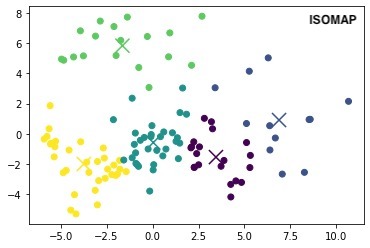
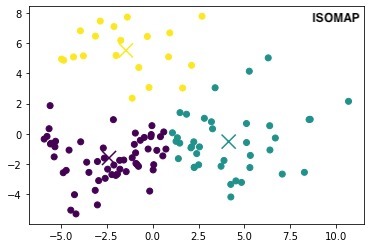
Readme (#9)
* Update README.md

* orden de las imágenes

* updated isomap

* updated image

* image

* Update README.md

* Update README.md

* Actualización

* atribución Carlos

* Update README.md

* Update README.md

* Prueba del programa

* Pronostico agregado

diff --git a/README.md b/README.md
@@ -9,7 +9,7 @@ Gutierrez Aldrete José de Jesús (ShoyChoy)
 
 López Cruz Diana Sareli (dianasareli)
 
-Ojeda Angulo Carlos Noel (Carlos-Ojeda)
+Ojeda Angulo Carlos Noel (Carlos-Ojeda) *También se le atribuye lo que está a nombre de Carlos sin cuenta de GitHub*
 
 Sánchez Panduro Francisco Javier (javiersanpan)
 
@@ -17,31 +17,46 @@ Saucedo Cruz José Rodrigo (SauceRSC)
 
 ## Objetivo de la clase
 
-Esta semana Tec está diesñada para desarrollar el análisis de datos en ingeniería y ciencias, así como la identificación de variables. 
-Asimismo, se desarrolla el emprendimiento innovador, y la inovación. 
+Esta semana Tec está diseñada para desarrollar el análisis de datos en ingeniería y ciencias, así como la identificación de variables. Asimismo, se desarrolla el emprendimiento innovador, y la inovación. 
 
 ## Objetivo del proyecto
 
-Se usó un dataset, con infomración recolectada a través de una encuesta. Este dataset nos indica qué tipo de compañerx de equipo es la persona que responde, con 7 tipos diferentes. 
+Con un dataset brindado, se crea un programa para separar por clases la información, y predecir a cuál pertenecenecerá una persona que responda de nuevo la encuesta. En este proyecto se utiliza un dataset generado por el equipo a través de encuestas, y se pronosticará qué tipo de participante en un equipo es una persona nueva. 
 
 ## Proyecto
 
+Se hizo una encuesta con 7 preguntas sobre cargos de equipo diferentes, y hubo 115 participantes. Las personas que participaron contestaron la frecuencia con la que tomaban  cierto cargo en un a escala de 0 a 5. 
+
 Este dataset se lee con la librería de Pandas. 
 
-Se divide en matriz de caractéristicas y vector de clases. Con esto, se probaron varios métodos de reducción de dimensiones, y se generan graficas con cada uno de ellos. 
+Se divide en matriz de caractéristicas. Con esto, se probaron varios métodos de reducción de dimensiones, y se generan graficas con cada uno de ellos. 
 
 Las graficas generadas son: 
 
-
 ![Isomap](https://github.com/javiersanpan/TC-1002-5/blob/master/Imagenes/Isomap.jpeg)
-![MDS](https://github.com/javiersanpan/TC-1002-5/blob/master/Imagenes/MDS.jpeg)
+
 ![PCA](https://github.com/javiersanpan/TC-1002-5/blob/master/Imagenes/PCA.jpeg)
 
-Y se seleccionó el **insertar seleccionada**, esto fue porque al intentar hacer la prueba con los tres, este es el que mostraba las clases de manera más clara, esto se puede observar cuando se separan por colores:
+![MDS](https://github.com/javiersanpan/TC-1002-5/blob/master/Imagenes/MDS.jpeg)
 
+Y se seleccionó ISOMAP, esto fue porque al intentar hacer la prueba con los tres, este es el que mostraba las clases de manera más clara, también se omite MDS, ya que se presenta un error al intentar dividir por 0.
 
-![PCA](https://github.com/javiersanpan/TC-1002-5/blob/master/Imagenes/PCA-C.jpeg)
 ![ISOMAP](https://github.com/javiersanpan/TC-1002-5/blob/master/Imagenes/ISOMAP-C.png)
 
-Adicionalmente, se programó el kmeans, y se grafican los puntos y los centroides en cada interacción, y de esta manera se ve como evoluciona la posición de estos centroides. 
+![PCA](https://github.com/javiersanpan/TC-1002-5/blob/master/Imagenes/PCA-C.jpeg)
 
+Adicionalmente, se programó el kmeans, y se grafican los puntos y los centroides en cada interacción, y de esta manera se ve como evoluciona la posición de estos centroides hasta que llega la medio definitivo. 
+
+K-means es un método de agrupamiento, que hace partición del conjunto de observaciones, en k número de grupos. Cada observación pertenece al grupo cuyo valor medio es más cercano. 
+
+## Cómo usar
+
+1. Corre el script k-means.py
+2. Llama a la función `llamarPronostico()`
+3. Responde las preguntas que se piden
+
+### Demostración de un pronóstico hecho con el algoritmo
+
+Aquí se muestra como el programa corre al llamarlo. Hace 7 preguntas, y hace un pronostico posicionando a la persona que responde en la gráfica. 
+
+![Prueba](https://github.com/javiersanpan/TC-1002-5/blob/master/Imagenes/test-hecho.png)
